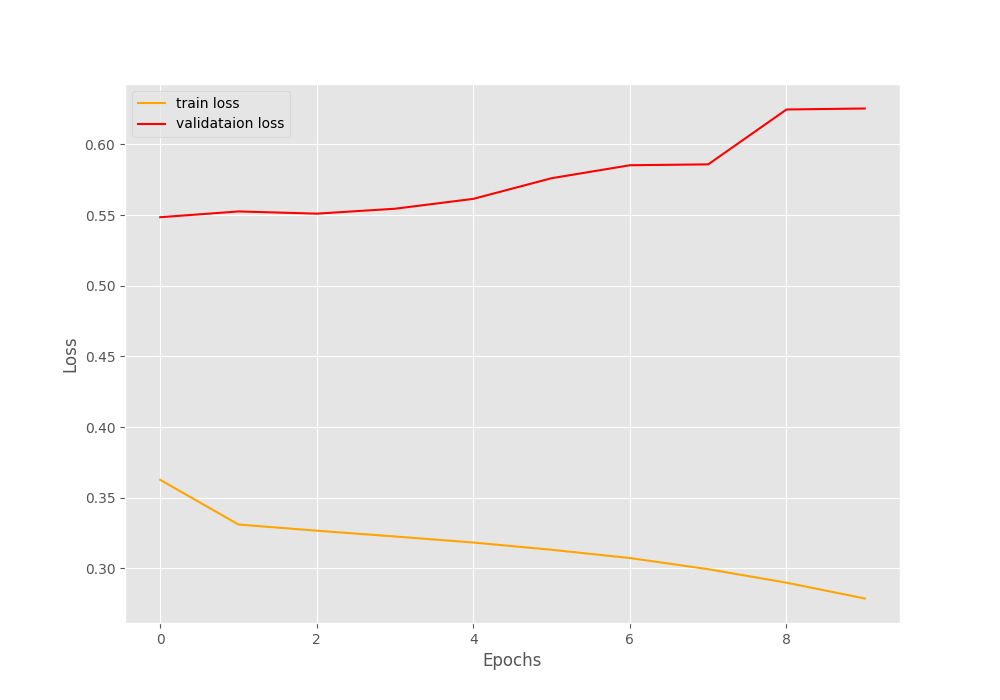
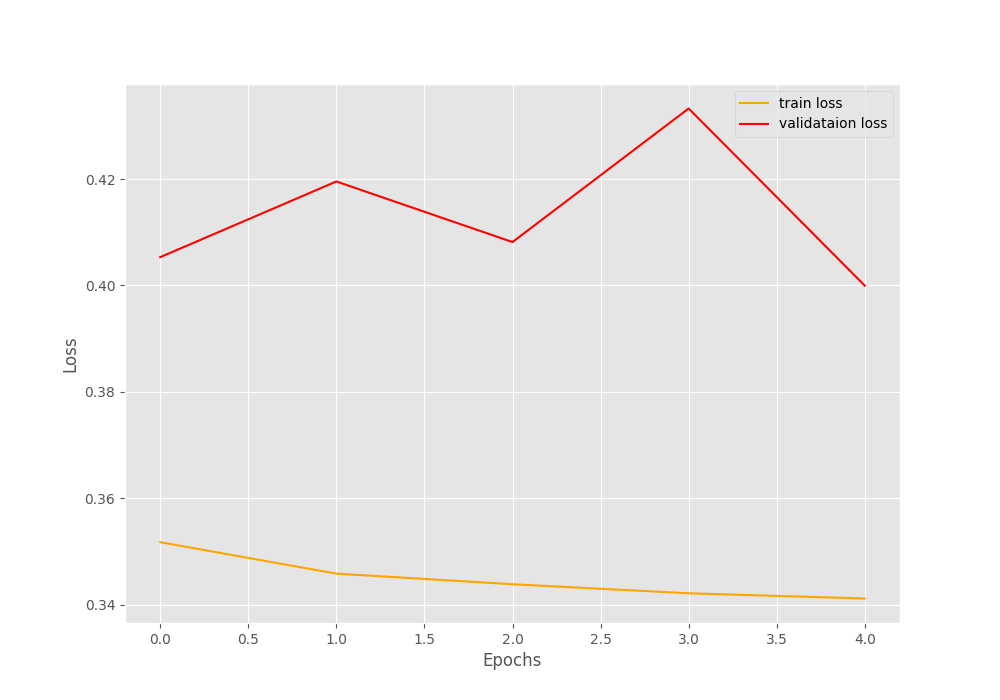
modify loss

diff --git a/chexpert/model/chexpert.py b/chexpert/model/chexpert.py
@@ -3,15 +3,21 @@ import torch
 import json,os
 sys.path.append("../datasets")
 sys.path.append("../model")
+# from ..datasets.data import 
+# from ..model import modelUtils,backbone
 import data
 import modelUtils
 import backbone
 from torch.nn import functional as F
-from sklearn.metrics import roc_auc_score
+from sklearn.metrics import roc_curve, auc, precision_recall_curve
 from torch.optim import Adam
 import torch.optim as optim
 import numpy as np
 from enum import Enum
+# from libauc.losses import AUCMLoss 
+from libauc.optimizers import PESG 
+from libauc.losses import AUCM_MultiLabel, CrossEntropyLoss
+import torch.nn as nn
 
 disease= { 
 
@@ -52,59 +58,49 @@ class chexpertNet():
            
             self.model.train()
             for batch_idx, (data, target) in enumerate(data_loader):
-                data=data.to(self.device)
+                data=data.to(self.device).float()
                 target=target.to(self.device)
                 counter+=1
                 self.optimizer.zero_grad()
                 output = self.model(data)
-            
+                output=torch.sigmoid(output)
                 train_correct+=compare(output=output,target=target)
-                loss = self.criterion(output, target)
-                train_loss+=loss.item()
+                # print (torch.unique(target))
+                loss = self.criterion(output, target).sum(1).mean(0)  
+                # train_loss+=loss.item()
                 loss.backward()
                 self.optimizer.step()
                 if batch_idx % log_interval == 0:
-                    print('Train Epoch: {} [{}/{} ({:.0f}%)]\t Loss: {:.6f}'.format(
+                    print('Train Epoch: {} [{}/{} ({:.0f}%)]\t '.format(
                         epoch, batch_idx * len(data), len(data_loader.dataset), 
-                        100. * batch_idx / len(data_loader),  loss.item()))
-            print ("Train accuracy : {:.0f}% ".format (100. *train_correct/(len(data_loader.dataset)*self.num_class)))
-            epoch_loss=  train_loss/counter
-            epoch_acc=100. *train_correct/(len(data_loader.dataset)*self.num_class)
-            
-            
-            return epoch_loss, epoch_acc
+                        100. * batch_idx / len(data_loader), ))
+        
     def eval(self,data_loader):
         print ("VALIDATING :")
         self.model.eval()
-        valid_running_loss = 0.0
-        valid_running_correct = 0
+       
         counter = 0
         y_score=[]
         y_true=[]
         with torch.no_grad():
             for data, target in data_loader:
-                data=data.to(self.device)
+                data=data.to(self.device).float()
                 target=target.to(self.device)
                 counter+=1
                 y_true.append(target)
 
                 output = self.model(data)
+                # ouput=torch.sigmoid(output)
                 y_score.append(output)
-                loss = self.criterion(output, target)
-                valid_running_loss += loss.item()
-                valid_running_correct += compare(output=output,target=target)
         
-        print('\nEval set:  Accuracy: {}/{} ({:.0f}%)\n'.format(
-        valid_running_correct, len(data_loader.dataset)*self.num_class,
-        100. * valid_running_correct / (len(data_loader.dataset)*self.num_class) ))
-        epoch_loss = valid_running_loss / counter
-        epoch_acc = 100. * (valid_running_correct / (len(data_loader.dataset)*self.num_class ))
+                loss = self.criterion(output, target).sum(1).mean(0)               
+               
         y_score=torch.concat(y_score,dim=0).detach()
         y_true=torch.concat(y_true,dim=0).detach()
 
         AUC=calculateAUC(y_score=y_score,y_true=y_true)
-        print ("AUC : {}".format (AUC))
-        return epoch_loss, epoch_acc
+        print ("Val set : AUC : {}".format (AUC))
+
     
     def train_epochs (self,train_data,val_data):
         save_best_model = modelUtils.SaveBestModel()
@@ -112,19 +108,16 @@ class chexpertNet():
         train_acc, valid_acc = [], []
         for epoch in range(1, self.cfg.train.epochs + 1):
             print(f"[INFO]: Epoch {epoch} of {self.cfg.train.epochs}")
-            train_epoch_loss, train_epoch_acc =  self.train_epoch( data_loader=train_data,epoch=epoch)
+            self.train_epoch( data_loader=train_data,epoch=epoch)
             
-            valid_epoch_loss, valid_epoch_acc =self.eval(data_loader=val_data)
-            train_loss.append(train_epoch_loss)
-            valid_loss.append(valid_epoch_loss)
-            train_acc.append(train_epoch_acc)
-            valid_acc.append(valid_epoch_acc)
-            save_best_model(
-                valid_epoch_loss, epoch, self.model, self.optimizer, self.criterion
-        )
+            self.eval(data_loader=val_data)
+           
+        #     save_best_model(
+        #         valid_epoch_loss, epoch, self.model, self.optimizer, self.criterion
+        # )
         print('-'*50)
         # print (" train accu {} \n val accu {}".format(train_acc,valid_acc))
-        modelUtils.save_plots(train_acc, valid_acc, train_loss, valid_loss)
+        # modelUtils.save_plots(train_acc, valid_acc, train_loss, valid_loss)
 
 
     def test(self,test_data):
@@ -134,17 +127,35 @@ class chexpertNet():
             model.load_state_dict(torch.load("/root/project/chexpert/model/output/best_model.pth")['model_state_dict'])
         else:
             self.eval(test_data)
+    def loadModel(self,cfg):
+        if cfg.model=="densenet121":
+            return backbone.DenseNetClassifier(num_classes=cfg.num_class)
+    def loadCriterion(self,cfg):
+            # return AUCM_MultiLabel(num_classes=14)
+            # return AUCMLoss()
+        
+        return nn.BCEWithLogitsLoss(reduction='none').to(self.device)
             
 def loadOptimizer(cfg,model):
         if cfg.train.optimizer.name=="Adam":
         
             return optim.Adam(model.parameters(),lr=cfg.train.optimizer.lr, weight_decay=cfg.train.optimizer.weight_decay)
+        elif cfg.train.optimizer.name=="AUC":
+            lr = 0.1 
+            epoch_decay = 2e-3
+            weight_decay = 1e-5
+            margin = 1.0
+            total_epochs = 2
+            loss_fn=AUCM_MultiLabel(num_classes=14)
+            return PESG(model, 
+                 loss_fn=loss_fn,
+                 lr=lr, 
+                 margin=margin, 
+                 epoch_decay=epoch_decay, 
+                 weight_decay=weight_decay)
+
    
-def loadModel(cfg):
-        if cfg.model=="densenet121":
-            return backbone.DenseNetClassifier(num_classes=cfg.num_class)
-def loadCriterion(cfg):
-        return F.binary_cross_entropy_with_logits
+
 def compare(output,target):
     output=torch.sigmoid(output)
     output[output>=0.5]=1.
@@ -153,6 +164,7 @@ def compare(output,target):
 
 def calculateAUC (y_score,y_true):
     # y_score , y_true are tensor of shape N* (num class)
+    y_score=torch.sigmoid(y_score)
     y_score=y_score.cpu().detach().numpy()
     y_true=y_true.cpu().detach().numpy()
     AUC=[]
@@ -163,8 +175,24 @@ def calculateAUC (y_score,y_true):
             # print ("only one class present in disease "+str(i))
             continue         
         else:
-            # print ("unique {} {}".format (np.unique(y_t ), i))
-            score =roc_auc_score(y_true[:,i].copy(),y_score[:,i].copy()) 
+            score =roc_auc_score(y_true=y_true[:,i].copy(),y_score=y_score[:,i].copy()) 
             score=round(score, 2)
             AUC.append ( ("class {}".format(disease[str(i)]),score))      
     return AUC
+def compute_metrics(outputs, targets, losses):
+    n_classes = outputs.shape[1]
+    fpr, tpr, aucs, precision, recall = {}, {}, {}, {}, {}
+    for i in range(n_classes):
+        fpr[i], tpr[i], _ = roc_curve(targets[:,i], outputs[:,i])
+        aucs[i] = auc(fpr[i], tpr[i])
+        precision[i], recall[i], _ = precision_recall_curve(targets[:,i], outputs[:,i])
+        fpr[i], tpr[i], precision[i], recall[i] = fpr[i].tolist(), tpr[i].tolist(), precision[i].tolist(), recall[i].tolist()
+
+    metrics = {'fpr': fpr,
+               'tpr': tpr,
+               'aucs': aucs,
+               'precision': precision,
+               'recall': recall,
+               'loss': dict(enumerate(losses.mean(0).tolist()))}
+
+    return metrics

diff --git a/chexpert/datasets/data.py b/chexpert/datasets/data.py
@@ -5,6 +5,7 @@ import torch
 import numpy as np
 from torch.utils.data import Dataset
 from PIL import Image
+import random 
 import sys
 sys.path.append("../datasets")
 import dataUtils
@@ -14,7 +15,10 @@ import cv2
 import os
 from torch.nn import functional as F
 from torch.utils.data import random_split
-    
+import albumentations as A
+from albumentations.pytorch import ToTensorV2
+import torchvision.transforms as T
+
 class ChestDataset(Dataset):
 
     def __init__(self,cfg, csv_file, root_dir, transform=None, numPatient=30,mode="train"):
@@ -32,8 +36,8 @@ class ChestDataset(Dataset):
 
         self.num_patient= numPatient
         self.cfg=cfg
-        self.transform = transform
         self.mode=mode
+        self.transform=transform
         #  start with 1 because it has the file .DS_Store in the begin
         subdir= sorted(os.listdir(root_dir))[1:numPatient+1]
         self.img_path=[]
@@ -41,14 +45,14 @@ class ChestDataset(Dataset):
             self.img_path+= glob.glob("{}/{}/*/*.jpg".format(root_dir,dir))  
   
         self.labels = pd.read_csv(csv_file, nrows=len(self.img_path)+1)
-        print (  self.labels.columns.tolist())
+        # print (  self.labels.columns.tolist())
         self.labels=np.array(self.labels.iloc[0:,5:])
         self.numclass=self.labels.shape[1]
        
         is_nan=np.isnan(self.labels)
         # convert NaN values to 0
         self.labels[is_nan]=0
-        self.labels[self.labels==-1]=0
+        self.labels[self.labels==-1]=1
         self.csvPath=csv_file
     def __len__(self):
         return len(self.img_path)
@@ -57,14 +61,13 @@ class ChestDataset(Dataset):
        
         label=self.labels[idx]
         # 0 is a must so that cv read with number of channel is 1, or gray mode
-        image=cv2.imread(self.img_path[idx],0)
-        #convert numpy array image to PIL image for transformation
-        image = Image.fromarray(image)
-        if self.mode=="train":
-            image=dataUtils.trainTransform(image=image)
-
-        image=np.array(image)
-        image=dataUtils.defaultTransform(image,cfg=self.cfg)
+        # image=cv2.imread(self.img_path[idx],0)
+        image = Image.open(self.img_path[idx])
+        if self.transform is not None:
+            # image = self.transform(image=image)["image"]
+            # image=self.transform(image=image)
+            image=self.transform(image)    
+        # return image['image'],label
         return image,label
 
     def getNumClass(self):
@@ -76,18 +79,52 @@ class ChestDataset(Dataset):
         image = Image.fromarray(image)
         image.show()
         print ("label {}".format(self.labels[idx]) )
-        # csv = pd.read_csv(self.csvPath, nrows=5)
-        # # exclude the first row of header
-        # print (np.array(csv.iloc[:,0:]) )
-        # print (np.array(csv.iloc[:,5:]) )
-        # print (np.array(csv.iloc[1:,5:]) )
-        
+      
+    def getRandomSample(self,num):
+      
+        for i in range (num):
+            length=len(self.img_path)
+            idx=random.randint(0,length) 
+            image=cv2.imread(self.img_path[idx],0)
+            image = Image.fromarray(image)
+            image.show()
+       
 def loadData(cfg,train_csv_path,train_image_path, test_csv_path,
 test_image_path,numPatient,validation_split = .4,batch_size = 1
 ):
-    trainset=ChestDataset(cfg=cfg,csv_file=train_csv_path,root_dir=train_image_path,numPatient=numPatient["train"],mode="train")
-    # trainset.getsample(5)
-    valtestset=ChestDataset(cfg=cfg,csv_file=test_csv_path,root_dir=test_image_path,numPatient=numPatient["val"],mode="val")
+#     train_transform = A.Compose([
+#     A.RandomResizedCrop(320,320),
+#     lambda x: torch.from_numpy( x.copy().float().div(255).unsqueeze(0)),   # tensor in [0,1]
+#     A.Normalize(mean=[0.5330], std=[0.0349]),   
+#      A.augmentations.geometric.transforms.Affine(
+#     translate_percent=(-0.2, 0.2),
+#     rotate=(-15, 15),
+#     shear=(-10, 10),
+#     p=0.5
+# )  ,                             
+#     lambda x: x.expand(3,-1,-1)    ])   
+    
+#     val_transform = A.Compose([
+#       A.Resize(320,320),
+#     lambda x: torch.from_numpy(x.copy().float().div(255).unsqueeze(0) ),   # tensor in [0,1]
+#     A.Normalize(mean=[0.5330], std=[0.0349]),                                           # whiten with dataset mean and std
+#     lambda x: x.expand(3,-1,-1)])  
+
+
+    train_transform = T.Compose([
+        T.RandomResizedCrop(320),
+        lambda x: torch.from_numpy(np.array(x, copy=True)).float().div(255).unsqueeze(0),   # tensor in [0,1]
+        T.Normalize(mean=[0.5330], std=[0.0349]),                                           # whiten with dataset mean and std
+        lambda x: x.expand(3,-1,-1)])  
+    val_transform = T.Compose([      
+        T.Resize(320),
+        lambda x: torch.from_numpy(np.array(x, copy=True)).float().div(255).unsqueeze(0),   # tensor in [0,1]
+        T.Normalize(mean=[0.5330], std=[0.0349]),                                           # whiten with dataset mean and std
+        lambda x: x.expand(3,-1,-1)]) 
+
+    trainset=ChestDataset(cfg=cfg,csv_file=train_csv_path,root_dir=train_image_path,numPatient=numPatient["train"],mode="train", transform=train_transform)
+
+    valtestset=ChestDataset(cfg=cfg,csv_file=test_csv_path,root_dir=test_image_path,numPatient=numPatient["val"],mode="val",transform=val_transform)
     test_data, val_data = random_split(valtestset, [1-validation_split, validation_split])
 
     train_loader = torch.utils.data.DataLoader(trainset, batch_size=batch_size,shuffle=True)

diff --git a/chexpert/model/backbone.py b/chexpert/model/backbone.py
@@ -14,26 +14,22 @@ class DenseNetClassifier (nn.Module):
         self.pool=F.adaptive_avg_pool2d
         self.n_features= denseNet.classifier.in_features
         self.num_classes=num_classes
-        # for name, param in self.dense.named_parameters():
-        #         if  "classifier" not in name:
-        #             param.requires_grad = False
+        
         self.generateClassificationLayer(in_feature=self.n_features)
     def forward (self,x):
         x=self.dense(x)
         class_layer=getattr(self,"cls_0")
-        z=self.pool(x,(1,1))
-        # print ("z1 {}".format (z.size()))
-        z=torch.flatten(z,1)
-        logitTensor=class_layer(z)
-        
-        for i in range(1,self.num_classes):
+        logits=[]
+        for i in range(0,self.num_classes):
             class_layer=getattr(self,"cls_"+str(i))
             z=self.pool(x,(1,1))
             # print ("z1 {}".format (z.size()))
             z=torch.flatten(z,1)
             binary=class_layer(z)
-            logitTensor=torch.cat( (logitTensor,binary),dim=1)       
-        return logitTensor
+            logits.append(binary)
+        logits=torch.concat(logits,dim=1)    
+        
+        return logits
     def generateClassificationLayer(self,in_feature):
             for i in range (self.num_classes):
                 setattr(self,"cls_"+str(i),nn.Linear(in_features=in_feature,out_features=1,bias=True))

diff --git a/chexpert/model/__main__.py b/chexpert/model/__main__.py
@@ -19,13 +19,15 @@ with open(cfg_path) as f:
 num_class, train_loader,val_loader,test_loader=data.loadData(cfg=cfg,train_csv_path=cfg.path.train_csv_path,train_image_path=cfg.path.train_image_path,
  test_csv_path=cfg.path.test_csv_path,test_image_path=cfg.path.test_image_path,numPatient=cfg.numPatient, validation_split = cfg.validation_split,batch_size = cfg.train.batch_size
 )
-print (len(train_loader.dataset))
+# get the shape of first example 
+# train_loader.dataset[0] will return the tuple of image and label, image is numpy array
+
+# print (train_loader.dataset[0][0].shape)
 model=chexpert.chexpertNet(cfg=cfg,device=device)
-model.train_epochs(train_data=train_loader,val_data=val_loader)
-model.test(test_data=test_loader)
+model.train_epochs(train_data=train_loader,val_data=test_loader)
 
 
-# torch.load("/Users/mac/vinBrain/cvDucnguyen/chexpert/model/output/best_model.pth")
+
 
 
 
